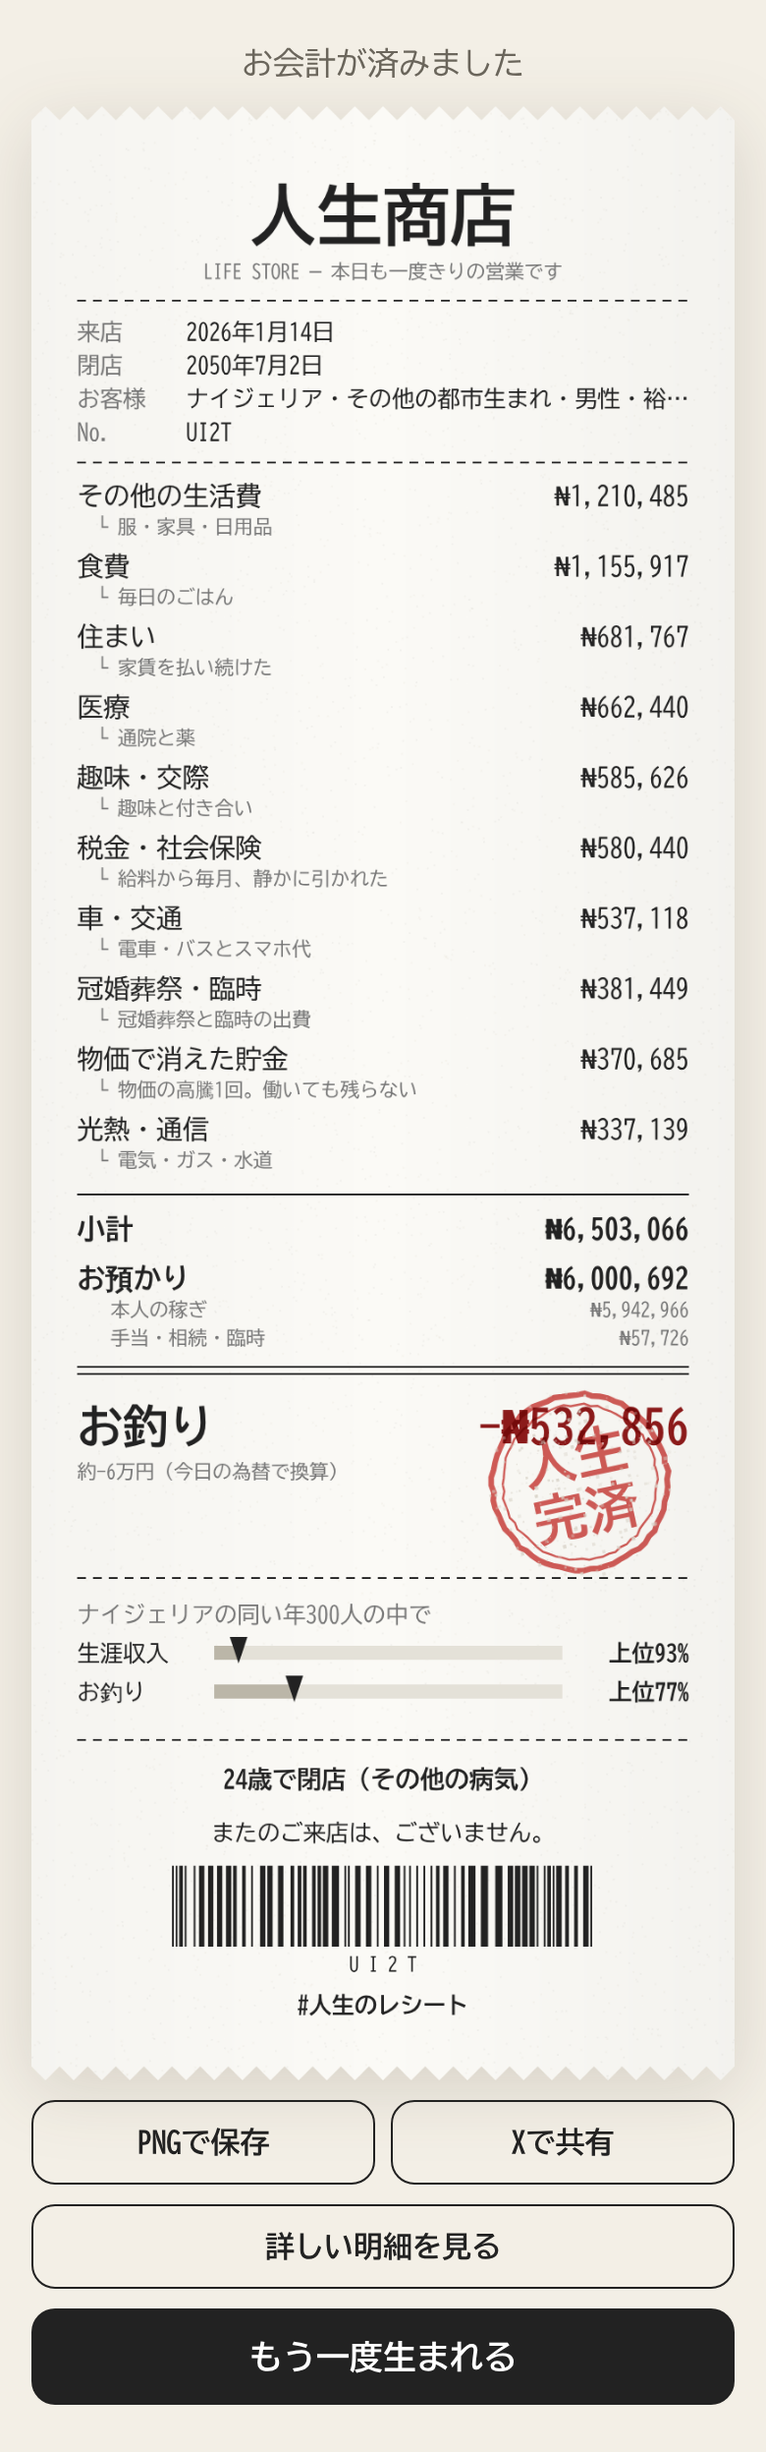
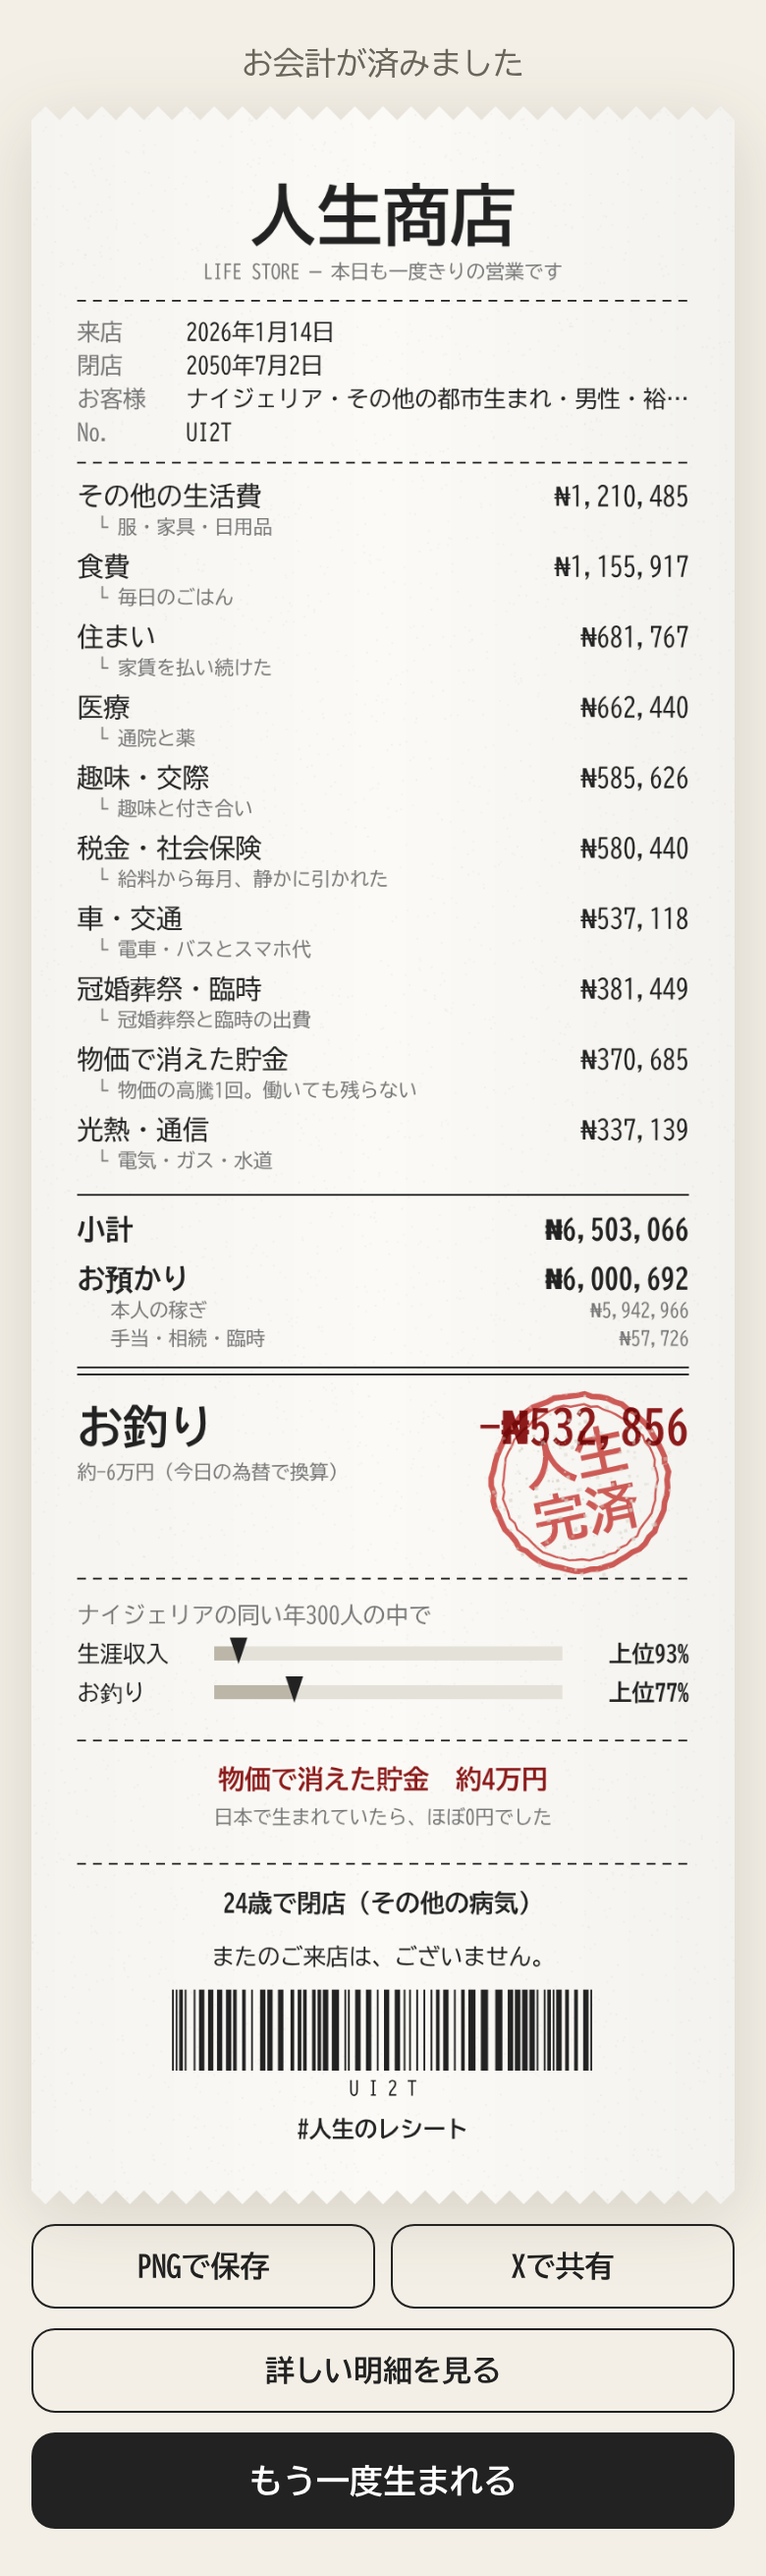
物価で消えた貯金の額を、レシート画像とXの投稿文に入れる
- 目減りが1万円以上の人生は、レシート画像に額と「日本で生まれていたら、ほぼ0円」を表示
- Xの投稿文の先頭に「◯◯に生まれ、物価で消えた貯金は約◯◯円。」を添える

Claude-Session: https://claude.ai/code/session_01P8h7G7H9Hz4F9jwmunJGJH

diff --git a/src/engine/result.ts b/src/engine/result.ts
@@ -30,6 +30,8 @@ export interface ReceiptData {
   /** 表示する通貨（日本は円） */
   currency: { code: string; nameJa: string; symbol: string; jpyPerUnit: number };
   countryName: string;
+  /** 物価の上昇で目減りした貯金（現地通貨）。目減りがなければ 0 */
+  inflationLoss: number;
   deathLine: string;
   closing: string;
 }
@@ -170,6 +172,7 @@ export function buildReceipt(l: Life): ReceiptData {
     stamp: stampOf(s.finalBalance, l.D.k),
     currency: l.D.currency,
     countryName: l.D.nameJa,
+    inflationLoss: Math.round(s.expenseTotal.inflation ?? 0),
     deathLine: `${s.deathAge}歳で閉店（${s.deathCause}）`,
     closing: "またのご来店は、ございません。",
   };
@@ -199,8 +202,20 @@ export function turningPoints(l: Life, max = 8): TurningPoint[] {
 
 export const SHARE_TEXT = "あなたはどこでお金を使う？ #人生のレシート";
 
-export function shareIntentUrl(url: string): string {
-  return `https://x.com/intent/post?text=${encodeURIComponent(SHARE_TEXT)}&url=${encodeURIComponent(url)}`;
+/** 物価で消えた貯金を円に直した額。1万円未満は 0（共有の文やレシートの一言に出さない） */
+export function inflationLossJpy(d: ReceiptData): number {
+  const v = d.inflationLoss * d.currency.jpyPerUnit;
+  return v >= 10_000 ? v : 0;
+}
+
+/** Xに投稿する文。物価で貯金が消えた人生は、その額を一言添える */
+export function shareText(d?: ReceiptData): string {
+  const v = d ? inflationLossJpy(d) : 0;
+  return v > 0 ? `${d!.countryName}に生まれ、物価で消えた貯金は約${yen(v)}。${SHARE_TEXT}` : SHARE_TEXT;
+}
+
+export function shareIntentUrl(url: string, d?: ReceiptData): string {
+  return `https://x.com/intent/post?text=${encodeURIComponent(shareText(d))}&url=${encodeURIComponent(url)}`;
 }
 
 export { yen, BIRTH_YEAR };

diff --git a/src/ui/receipt.ts b/src/ui/receipt.ts
@@ -1,5 +1,5 @@
 // 感熱紙風のレシートを canvas に描く。PNG保存・共有もここで扱う。
-import type { ReceiptData } from "../engine/result";
+import { inflationLossJpy, type ReceiptData } from "../engine/result";
 
 const W = 400;
 const PAD = 26;
@@ -269,6 +269,16 @@ function layout(p: Pen, d: ReceiptData): void {
   rankBar(p, "生涯収入", d.rankIncome);
   rankBar(p, "お釣り", d.rankBalance);
   p.y += 10;
+  // 物価で貯金が消えた人生は、その額を一言で目立たせる（日本ではこの目減りがほぼ起きない）
+  const lostJpy = inflationLossJpy(d);
+  if (lostJpy > 0) {
+    rule(p);
+    p.y += 24;
+    text(p, `物価で消えた貯金　${approxYen(lostJpy)}`, W / 2, 15, { bold: true, align: "center", color: RED_INK, maxW: W - PAD * 2 });
+    p.y += 20;
+    text(p, "日本で生まれていたら、ほぼ0円でした", W / 2, 11, { align: "center", color: GRAY, maxW: W - PAD * 2 });
+    p.y += 10;
+  }
   rule(p);
   p.y += 24;
   text(p, d.deathLine, W / 2, 14, { bold: true, align: "center", maxW: W - PAD * 2 });

diff --git a/src/main.ts b/src/main.ts
@@ -326,7 +326,7 @@ async function showResult(life: Life): Promise<void> {
     <canvas id="rc"></canvas>
     <div class="row2">
       <button class="btn sub" id="png">PNGで保存</button>
-      <a class="btn sub" id="x" href="${esc(shareIntentUrl(url))}" target="_blank" rel="noopener">Xで共有</a>
+      <a class="btn sub" id="x" href="${esc(shareIntentUrl(url, data))}" target="_blank" rel="noopener">Xで共有</a>
     </div>
     <a class="btn sub" href="${esc(url)}">詳しい明細を見る</a>
     <button class="btn" id="again">もう一度生まれる</button>

diff --git a/src/detail.ts b/src/detail.ts
@@ -243,7 +243,7 @@ function render(l: Life): void {
     downloadReceipt(canvas, `jinsei-receipt-${d.receiptNo}.png`).catch(() => {});
   });
   document.getElementById("share")!.addEventListener("click", () => {
-    window.open(shareIntentUrl(location.href), "_blank", "noopener");
+    window.open(shareIntentUrl(location.href, d), "_blank", "noopener");
   });
   renderChart(app.querySelector<HTMLElement>(".chart")!, flows(l.records));
 }

diff --git a/README.md b/README.md
@@ -19,7 +19,7 @@
    - **小さな選択（1〜3年ごと）**：お小遣い、部活、アルバイト、ボーナスの使い道、副業の誘い、海外への出稼ぎ、家畜を買う、暗号資産、詐欺電話など26種類。国・年齢・状況で出るものが変わる。
    - **人生の出来事から生まれる選択**：結婚したら「子どもを持つか（ほしい／しばらく二人で／持たない）」、授からないときは不妊治療をするか。夫婦のすれ違いでは「話し合う／カウンセリング／別れる」（いきなり離婚はしない）。パートナーの暴力では「相談窓口の支援で家を出る／家族に相談／様子を見る」（描写はせず、日本では相談先 #8008 を表示）。
    - **国ごとの出来事（110種類）**：ナイジェリアの燃料費高騰、インドのモンスーン洪水、米国の医療費、韓国の塾代、フィリピンの海外就労など、その国の暮らしでよく起きることを選択つきで。
-   - **統計にもとづく出来事**：物価の暴騰（通貨の価値が急落）、盗難・強盗、政情不安、紛争による避難、感染症、干ばつ、洪水・地震。起こりやすさはその国のインフレ率・殺人率・政治の安定度などから決まる。物価が荒れやすい国では「ドルや金で貯める」選択も出る。毎年の物価上昇率は、その国で実際に記録された年の値をひと続きで借りてくる（例：「物価が1年で42%上がった（イランで2025年に実際に記録された上昇率）」）。物価で目減りした現金は、レシートに「物価で消えた貯金」として別の行で出る。
+   - **統計にもとづく出来事**：物価の暴騰（通貨の価値が急落）、盗難・強盗、政情不安、紛争による避難、感染症、干ばつ、洪水・地震。起こりやすさはその国のインフレ率・殺人率・政治の安定度などから決まる。物価が荒れやすい国では「ドルや金で貯める」選択も出る。毎年の物価上昇率は、その国で実際に記録された年の値をひと続きで借りてくる（例：「物価が1年で42%上がった（イランで2025年に実際に記録された上昇率）」）。物価で目減りした現金は、レシートに「物価で消えた貯金」として別の行で出る。目減りが1万円以上あった人生は、レシート画像の下の方にその額が赤字で入り、Xの投稿文も「イランに生まれ、物価で消えた貯金は約170万円。」のように始まる。
    - どの道にも得と損の両方がある。正解はない。
 6. 亡くなるとレシートが発行される。金額は現地通貨（日本以外は円換算も併記）。**PNGで保存**／**Xで共有**／**詳しい明細を見る** ができる。
 
